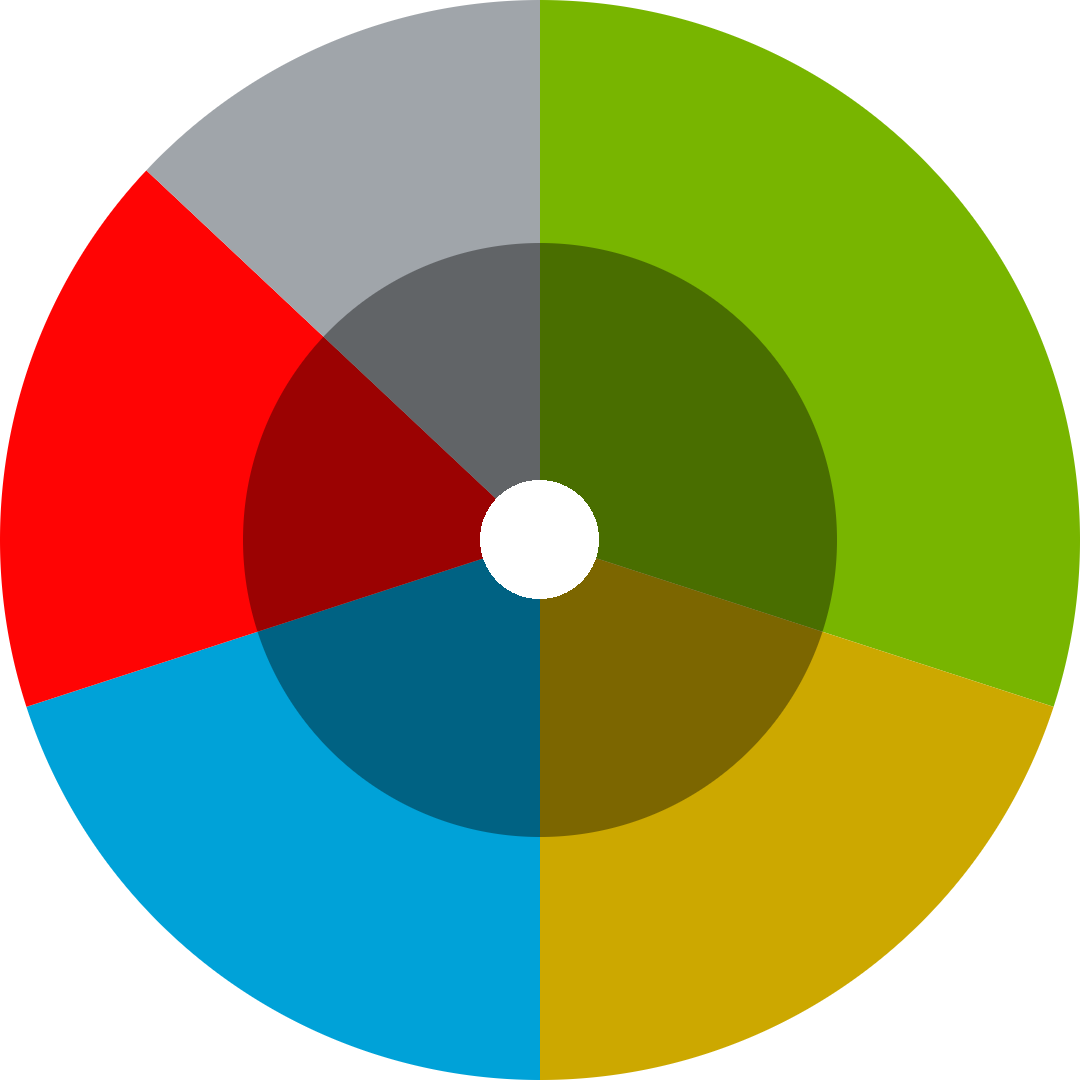
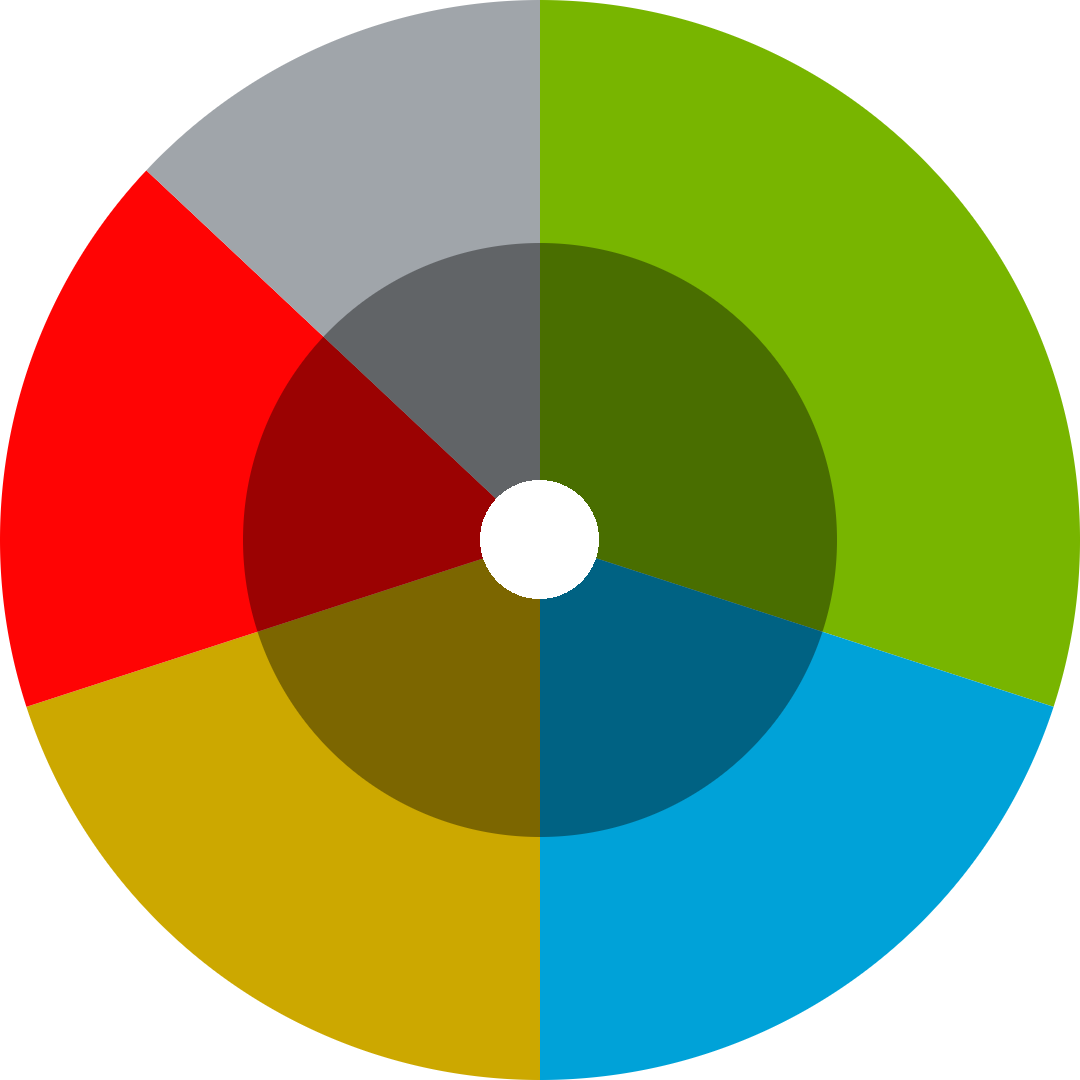
Add default value for slices parameter of chart

diff --git a/piechart/src/androidTest/kotlin/ir/mahozad/android/compose/ScreenshotTestCompose.kt b/piechart/src/androidTest/kotlin/ir/mahozad/android/compose/ScreenshotTestCompose.kt
@@ -4,6 +4,7 @@ import androidx.compose.runtime.mutableStateOf
 import androidx.compose.ui.graphics.Color
 import androidx.compose.ui.test.junit4.createComposeRule
 import androidx.test.platform.app.InstrumentationRegistry
+import androidx.compose.runtime.*
 import de.mannodermaus.junit5.condition.DisabledIfBuildConfigValue
 import org.junit.Rule
 import org.junit.Test
@@ -78,17 +79,7 @@ class ScreenshotTestCompose {
 
     @Test fun chartShouldBeDisplayed() {
         val screenshotName = "screenshot-1"
-        composeTestRule.setContent {
-            PieChartCompose(
-                listOf(
-                    SliceCompose(0.3f, Color(120, 181, 0)/*, Color(149, 224, 0)*/),
-                    SliceCompose(0.2f, Color(204, 168, 0)/*, Color(249, 228, 0)*/),
-                    SliceCompose(0.2f, Color(0, 162, 216)/*, Color(31, 199, 255)*/),
-                    SliceCompose(0.17f, Color(255, 4, 4)/*, Color(255, 72, 86)*/),
-                    SliceCompose(0.13f, Color(160, 165, 170)/*, Color(175, 180, 185)*/)
-                )
-            )
-        }
+        composeTestRule.setContent { PieChartCompose() }
         composeTestRule
             .takeScreenshot()
             .saveIfNeeded(shouldSave, screenshotName)
@@ -97,18 +88,10 @@ class ScreenshotTestCompose {
 
     @Test fun changeSlices() {
         val screenshotName = "screenshot-2"
-        val slices = mutableStateOf(
-            listOf(
-                SliceCompose(0.3f, Color(120, 181, 0)/*, Color(149, 224, 0)*/),
-                SliceCompose(0.2f, Color(204, 168, 0)/*, Color(249, 228, 0)*/),
-                SliceCompose(0.2f, Color(0, 162, 216)/*, Color(31, 199, 255)*/),
-                SliceCompose(0.17f, Color(255, 4, 4)/*, Color(255, 72, 86)*/),
-                SliceCompose(0.13f, Color(160, 165, 170)/*, Color(175, 180, 185)*/)
-            )
-        )
+        var slices by mutableStateOf(defaultSlices)
+        composeTestRule.setContent { PieChartCompose(pieChartData = slices) }
 
-        composeTestRule.setContent { PieChartCompose(slices.value) }
-        slices.value = listOf(SliceCompose(1f, Color.Green))
+        slices = listOf(SliceCompose(1f, Color.Green))
 
         composeTestRule
             .takeScreenshot()
@@ -118,18 +101,7 @@ class ScreenshotTestCompose {
 
     @Test fun changeHoleRatio() {
         val screenshotName = "screenshot-3"
-        composeTestRule.setContent {
-            PieChartCompose(
-                listOf(
-                    SliceCompose(0.3f, Color(120, 181, 0)/*, Color(149, 224, 0)*/),
-                    SliceCompose(0.2f, Color(204, 168, 0)/*, Color(249, 228, 0)*/),
-                    SliceCompose(0.2f, Color(0, 162, 216)/*, Color(31, 199, 255)*/),
-                    SliceCompose(0.17f, Color(255, 4, 4)/*, Color(255, 72, 86)*/),
-                    SliceCompose(0.13f, Color(160, 165, 170)/*, Color(175, 180, 185)*/)
-                ),
-                holeRatio = 0.11f
-            )
-        }
+        composeTestRule.setContent { PieChartCompose(holeRatio = 0.11f) }
         composeTestRule
             .takeScreenshot()
             .saveIfNeeded(shouldSave, screenshotName)
@@ -138,18 +110,7 @@ class ScreenshotTestCompose {
 
     @Test fun changeOverlayRatio() {
         val screenshotName = "screenshot-4"
-        composeTestRule.setContent {
-            PieChartCompose(
-                listOf(
-                    SliceCompose(0.3f, Color(120, 181, 0)/*, Color(149, 224, 0)*/),
-                    SliceCompose(0.2f, Color(204, 168, 0)/*, Color(249, 228, 0)*/),
-                    SliceCompose(0.2f, Color(0, 162, 216)/*, Color(31, 199, 255)*/),
-                    SliceCompose(0.17f, Color(255, 4, 4)/*, Color(255, 72, 86)*/),
-                    SliceCompose(0.13f, Color(160, 165, 170)/*, Color(175, 180, 185)*/)
-                ),
-                overlayRatio = 0.37f
-            )
-        }
+        composeTestRule.setContent { PieChartCompose(overlayRatio = 0.37f) }
         composeTestRule
             .takeScreenshot()
             .saveIfNeeded(shouldSave, screenshotName)

diff --git a/test/src/main/kotlin/chart/test/ShowcaseComposeActivity.kt b/test/src/main/kotlin/chart/test/ShowcaseComposeActivity.kt
@@ -11,31 +11,22 @@ import androidx.compose.runtime.mutableStateOf
 import androidx.compose.runtime.remember
 import androidx.compose.runtime.setValue
 import androidx.compose.ui.Modifier
-import androidx.compose.ui.graphics.Color
 import ir.mahozad.android.compose.PieChartCompose
 import ir.mahozad.android.compose.SliceCompose
+import ir.mahozad.android.compose.defaultSlices
 import kotlin.random.Random
 
 class ShowcaseComposeActivity : ComponentActivity() {
+
+    private val random = Random(0 /* or System.currentTimeMillis */)
+
     override fun onCreate(savedInstanceState: Bundle?) {
         super.onCreate(savedInstanceState)
-
-        val initialSlices = listOf(
-            SliceCompose(0.30f, Color(120, 181, 0)),
-            SliceCompose(0.20f, Color(204, 168, 0)),
-            SliceCompose(0.20f, Color(0, 162, 216)),
-            SliceCompose(0.17f, Color(255, 4, 4)),
-            SliceCompose(0.13f, Color(160, 165, 170))
-        )
-
-        val random = Random(0 /* or System.currentTimeMillis */)
-
         setContent {
-            var slices by remember { mutableStateOf(initialSlices) }
+            var slices by remember { mutableStateOf(defaultSlices) }
             var holeRatio by remember { mutableStateOf(0.4f) }
             MaterialTheme {
                 PieChartCompose(
-                    slices,
                     Modifier
                         .fillMaxSize()
                         .clickable {
@@ -44,6 +35,7 @@ class ShowcaseComposeActivity : ComponentActivity() {
                             }
                             holeRatio = 0.2f /* or random.nextFloat() */
                         },
+                    slices,
                     holeRatio = holeRatio,
                 )
             }

diff --git a/piechart/src/main/kotlin/ir/mahozad/android/compose/PieChartCompose.kt b/piechart/src/main/kotlin/ir/mahozad/android/compose/PieChartCompose.kt
@@ -18,14 +18,22 @@ import ir.mahozad.android.DEFAULT_OVERLAY_RATIO
 
 data class SliceCompose(val fraction: Float, val color: Color)
 
+val defaultSlices = listOf(
+    SliceCompose(0.3f, Color(120, 181, 0)),
+    SliceCompose(0.2f, Color(0, 162, 216)),
+    SliceCompose(0.2f, Color(204, 168, 0)),
+    SliceCompose(0.17f, Color(255, 4, 4)),
+    SliceCompose(0.13f, Color(160, 165, 170))
+)
+
 /**
  * By default, the ani-alias is *ENABLED*. See [this post](https://stackoverflow.com/a/64689612).
  */
 
 @Composable
 fun PieChartCompose(
-    pieChartData: List<SliceCompose>,
     modifier: Modifier = Modifier,
+    pieChartData: List<SliceCompose> = defaultSlices,
     holeRatio: Float = DEFAULT_HOLE_RATIO,
     overlayRatio: Float = DEFAULT_OVERLAY_RATIO,
     animation: AnimationSpec<Float> = TweenSpec(durationMillis = 500),
@@ -110,14 +118,5 @@ private fun DrawScope.drawSlice(color: Color, startAngle: Float, sweepAngle: Flo
 
 @Preview
 @Composable fun PieChartPreview() {
-    PieChartCompose(
-        pieChartData = listOf(
-            SliceCompose(0.3f, Color(120, 181, 0)),
-            SliceCompose(0.2f, Color(0, 162, 216)),
-            SliceCompose(0.2f, Color(204, 168, 0)),
-            SliceCompose(0.17f, Color(255, 4, 4)),
-            SliceCompose(0.13f, Color(160, 165, 170))
-        ),
-        Modifier.aspectRatio(1f), /* OR .fillMaxSize() */
-    )
+    PieChartCompose(Modifier.aspectRatio(1f) /* OR .fillMaxSize() */)
 }

diff --git a/piechart/src/main/kotlin/ir/mahozad/android/compose/PieChartView.kt b/piechart/src/main/kotlin/ir/mahozad/android/compose/PieChartView.kt
@@ -4,20 +4,11 @@ import android.content.Context
 import android.util.AttributeSet
 import androidx.compose.runtime.Composable
 import androidx.compose.runtime.mutableStateOf
-import androidx.compose.ui.graphics.Color
 import androidx.compose.ui.platform.AbstractComposeView
 import androidx.core.content.withStyledAttributes
 import ir.mahozad.android.DEFAULT_HOLE_RATIO
 import ir.mahozad.android.DEFAULT_OVERLAY_RATIO
 import ir.mahozad.android.R
-
-val defaultSlices = listOf(
-    SliceCompose(0.3f, Color(120, 181, 0)),
-    SliceCompose(0.2f, Color(0, 162, 216)),
-    SliceCompose(0.2f, Color(204, 168, 0)),
-    SliceCompose(0.17f, Color(255, 4, 4)),
-    SliceCompose(0.13f, Color(160, 165, 170))
-)
 
 /**
  * See [this article](https://proandroiddev.com/jetpack-compose-interop-part-2-using-compose-in-traditional-android-views-and-layouts-with-a3c50fc2eaa5).
